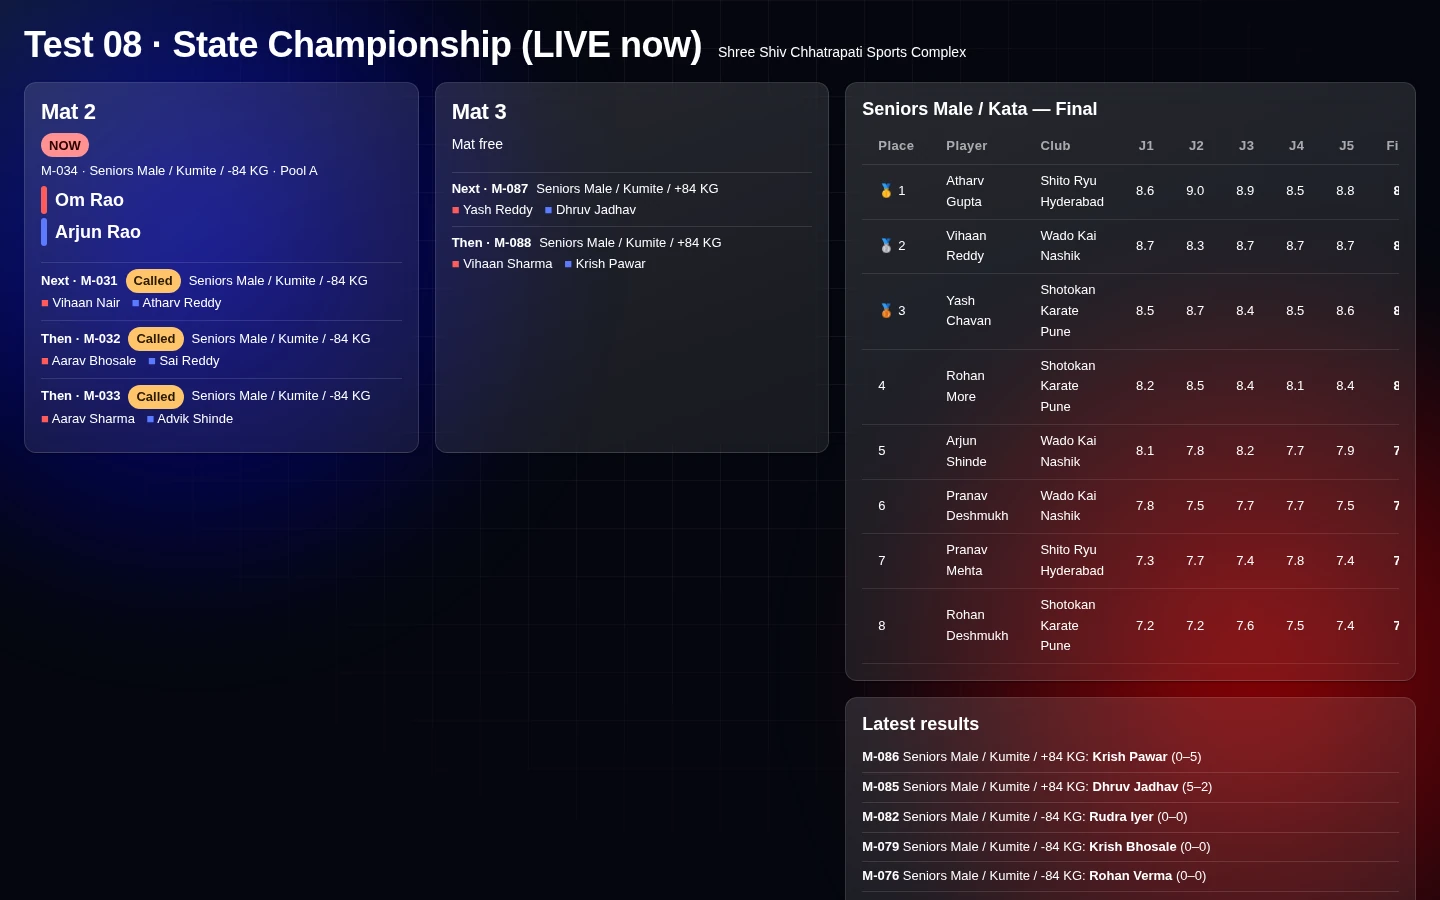
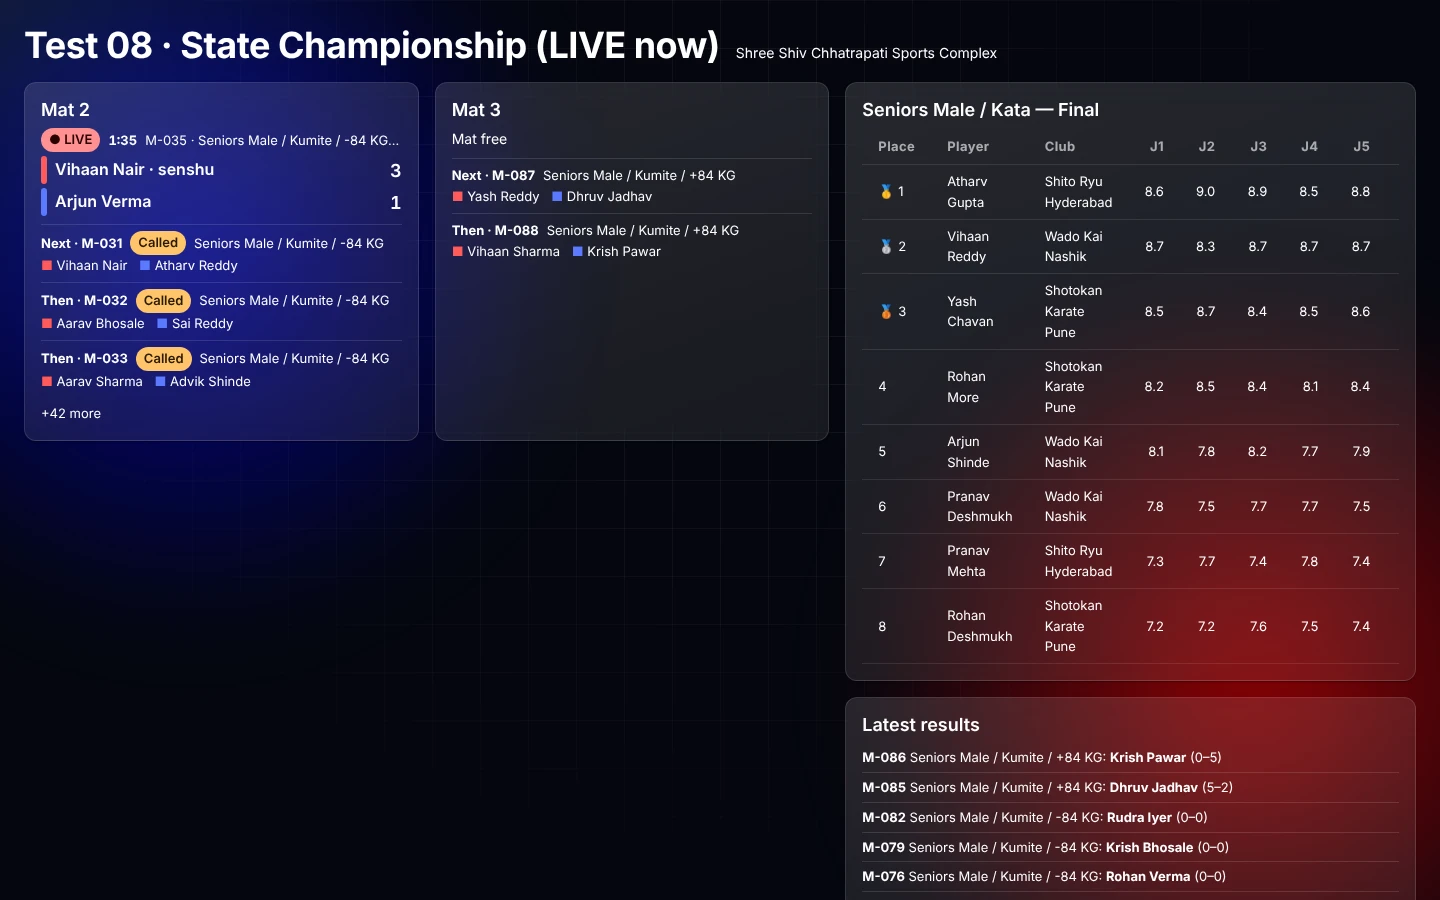
Show every mat's live score on the hall Live board
The Live board read only the hall scoreboard row (polled every 10 s), so
it showed a score for one mat at a time: whichever opened last. It now
uses the same mat cards as the public Live tab, each with its own mat
scoreboard's pushed score, and drops its own copy of the mat queues.

KAN-428

Claude-Session: https://claude.ai/code/session_0126QuUdDXNdBAZ2Z9CT3bto

diff --git a/packages/web/src/pages/public/LiveBoard.jsx b/packages/web/src/pages/public/LiveBoard.jsx
@@ -1,23 +1,21 @@
 import { useEffect, useMemo, useState } from 'react'
 import { useSearchParams } from 'react-router-dom'
-import { Box, Typography, Paper, Grid, Stack, Chip, Card, CardActionArea, CardContent, Container } from '@mui/material'
+import { Box, Typography, Paper, Grid, Stack, Card, CardActionArea, CardContent, Container } from '@mui/material'
 import { tms } from '../../data/tms'
 import { watchPublicChanges } from '../../data/live'
-import { displayRepo } from '../../data/display'
 import Bracket from '../../components/tms/Bracket'
 import KataRoundTable from '../../components/tms/KataRoundTable'
 import { PageLoader } from '../../components/Loader'
+import MatCard from '../../components/tms/MatCard'
+import { matQueues } from '../../components/tms/matQueues'
+import { useMatScoreboards } from '../../hooks/useMatScoreboards'
 
-const AKA = '#FF5B5B'
-const AO = '#5B7BFF'
-const NEXT_PER_MAT = 3
 const EVENT_NAME = { kata: 'Kata', kumite: 'Kumite' }
 const ROTATE_MS = 12_000
-const number = (m) => Number(String(m.matchNumber).replace(/\D/g, '')) || 0
 
 /**
  * PRD point 22: the hall screen at /live. For every mat, the bout on it (with
- * the live score when the scoreboard is open), the bouts called and coming
+ * its live score while that mat's scoreboard shows it), the bouts called and coming
  * next, and a rotating view of the brackets and kata results. Public data
  * only (Rule 8); it updates itself as the server announces changes.
  *
@@ -54,8 +52,8 @@ export default function LiveBoard() {
 
 function Board({ slug }) {
   const [data, setData] = useState(null)
-  const [live, setLive] = useState(null)
   const [slide, setSlide] = useState(0)
+  const scoreOf = useMatScoreboards()
 
   useEffect(() => {
     let alive = true
@@ -64,7 +62,6 @@ function Board({ slug }) {
     const stop = watchPublicChanges(load)
     return () => { alive = false; stop() }
   }, [slug])
-  useEffect(() => displayRepo.subscribe(setLive), [])
 
   // The brackets and kata results with something to show, one at a time.
   const slides = useMemo(() => (data?.results || []).flatMap((d) => [
@@ -81,12 +78,9 @@ function Board({ slug }) {
 
   // Only the event on the mats now (Kata and Kumite take turns): the other's bouts are not next.
   const running = data.tournament.runningEvent
-  const waiting = data.matches.filter((m) => !['completed', 'cancelled'].includes(m.status) && m.aka && m.ao)
-  const pending = waiting.filter((m) => !running || !m.event || m.event === running).sort((a, b) => number(a) - number(b))
-  const later = waiting.find((m) => running && m.event && m.event !== running)
-  const mats = [...new Set(pending.map((m) => m.mat || 1))].sort((a, b) => a - b)
+  const queues = matQueues(data.matches, running, (m) => !!scoreOf(m))
+  const later = running && data.matches.find((m) => !['completed', 'cancelled'].includes(m.status) && m.aka && m.ao && m.event && m.event !== running)
   const recent = data.matches.filter((m) => m.status === 'completed').slice(-6).reverse()
-  const scoreboardOpen = live && live.status === 'open'
   const current = slides[slide % Math.max(1, slides.length)]
 
   return (
@@ -99,38 +93,13 @@ function Board({ slug }) {
       <Grid container spacing={2}>
         <Grid size={{ xs: 12, lg: 7 }}>
           <Grid container spacing={2}>
-            {!mats.length && <Grid size={{ xs: 12 }}><Paper sx={{ p: 3 }}><Typography color="text.secondary">{later ? `${EVENT_NAME[running]} is on the mats now. The ${EVENT_NAME[later.event]} bouts come after it.` : 'No bouts waiting.'}</Typography></Paper></Grid>}
-            {mats.map((mat) => {
-              const queue = pending.filter((m) => (m.mat || 1) === mat)
-              const now = queue.find((m) => ['live', 'open', 'paused'].includes(m.status)) || null
-              const next = queue.filter((m) => m !== now).slice(0, NEXT_PER_MAT)
-              const showScore = now && scoreboardOpen && String(live.fieldNumber || '') === String(mat)
-              return (
-                <Grid key={mat} size={{ xs: 12, md: 6 }}>
-                  <Paper sx={{ p: 2, height: '100%' }}>
-                    <Typography variant="h2" sx={{ mb: 1 }}>Mat {mat}</Typography>
-                    {now ? (
-                      <Box sx={{ mb: 2 }}>
-                        <Chip size="small" color="error" label="NOW" sx={{ mb: 0.5 }} />
-                        <Typography variant="body2" color="text.secondary">{now.matchNumber} · {now.category} · {now.stage === 'knockout' ? now.roundName : `Pool ${now.pool}`}</Typography>
-                        <Side color={AKA} name={now.aka} score={showScore ? live.akaScore : null} />
-                        <Side color={AO} name={now.ao} score={showScore ? live.aoScore : null} />
-                      </Box>
-                    ) : <Typography color="text.secondary" sx={{ mb: 2 }}>Mat free</Typography>}
-                    {next.map((m, i) => (
-                      <Box key={m.id} sx={{ py: 0.75, borderTop: '1px solid', borderColor: 'divider' }}>
-                        <Stack direction="row" spacing={1} sx={{ alignItems: 'center' }}>
-                          <Typography variant="body2" sx={{ fontWeight: 700 }}>{i === 0 ? 'Next' : `Then`} · {m.matchNumber}</Typography>
-                          {m.calledAt && <Chip size="small" color="warning" label="Called" />}
-                          <Typography variant="body2" color="text.secondary" noWrap sx={{ flex: 1 }}>{m.category}</Typography>
-                        </Stack>
-                        <Typography variant="body2"><Box component="span" sx={{ color: AKA }}>■</Box> {m.aka}  <Box component="span" sx={{ color: AO, ml: 1 }}>■</Box> {m.ao}</Typography>
-                      </Box>
-                    ))}
-                  </Paper>
-                </Grid>
-              )
-            })}
+            {!queues.length && <Grid size={{ xs: 12 }}><Paper sx={{ p: 3 }}><Typography color="text.secondary">{later ? `${EVENT_NAME[running]} is on the mats now. The ${EVENT_NAME[later.event]} bouts come after it.` : 'No bouts waiting.'}</Typography></Paper></Grid>}
+            {/* KAN-428: every mat with its own scoreboard's live score, as on the public page. */}
+            {queues.map((mq) => (
+              <Grid key={mq.mat} size={{ xs: 12, md: 6 }}>
+                <MatCard mat={mq.mat} now={mq.now} next={mq.next} board={mq.now ? scoreOf(mq.now) : null} />
+              </Grid>
+            ))}
           </Grid>
         </Grid>
 
@@ -158,15 +127,5 @@ function Board({ slug }) {
         </Grid>
       </Grid>
     </Box>
-  )
-}
-
-function Side({ color, name, score }) {
-  return (
-    <Stack direction="row" sx={{ alignItems: 'center', gap: 1, mt: 0.5 }}>
-      <Box sx={{ width: 6, height: 28, bgcolor: color, borderRadius: 1 }} />
-      <Typography variant="h3" sx={{ flex: 1 }} noWrap>{name || 'TBD'}</Typography>
-      {score != null && <Typography variant="h2">{score}</Typography>}
-    </Stack>
   )
 }

diff --git a/packages/web/src/pages/public/LiveBoard.event.test.jsx b/packages/web/src/pages/public/LiveBoard.event.test.jsx
@@ -1,5 +1,5 @@
 import { describe, it, expect, vi } from 'vitest'
-import { render, screen } from '@testing-library/react'
+import { render, screen, within } from '@testing-library/react'
 import { MemoryRouter } from 'react-router-dom'
 import LiveBoard from './LiveBoard'
 import { hallInfo } from '../referee/RefereeMatchControl'
@@ -30,6 +30,24 @@ describe('the live board (/live)', () => {
     expect(screen.getByText(/Next · M-004/)).toBeInTheDocument()
     expect(screen.getByText(/Then · M-006/)).toBeInTheDocument()
     for (const kata of ['M-001', 'M-002', 'M-005']) expect(screen.queryByText(new RegExp(kata))).not.toBeInTheDocument()
+  })
+})
+
+describe('the live board with every mat scoring (KAN-428)', () => {
+  it("shows each mat's own live score, not only the mat the hall screen last opened", async () => {
+    const board = (akaScore, aoScore) => ({ akaScore, aoScore, senshu: null, clock: null, outcome: null, heartbeatAt: Date.now() })
+    data.view.mockResolvedValue({
+      tournament: { name: 'Pune Open', venue: 'Pune', runningEvent: 'kumite' },
+      matches: [bout(1, 'kumite', { status: 'live', scoreboard: board(3, 1) }), bout(2, 'kumite', { mat: 2, status: 'live', scoreboard: board(0, 5) })],
+      results: [],
+    })
+    render(<MemoryRouter initialEntries={['/live?t=pune-open']}><LiveBoard /></MemoryRouter>)
+    const mat1 = within(await screen.findByTestId('mat-1'))
+    const mat2 = within(screen.getByTestId('mat-2'))
+    expect(mat1.getByText('3')).toBeInTheDocument()
+    expect(mat1.getByText('1')).toBeInTheDocument()
+    expect(mat2.getByText('0')).toBeInTheDocument()
+    expect(mat2.getByText('5')).toBeInTheDocument()
   })
 })
 

diff --git a/docs/user-guide/README.md b/docs/user-guide/README.md
@@ -622,7 +622,7 @@ Safety rules on the console:
 | --- | --- | --- |
 | Mat scoreboard | `/display?mat=N` | That mat's bout: names, clubs, scores, senshu, clock, category, round and the next bout |
 | Hall scoreboard | `/display` | The latest bout opened on any mat |
-| Live board | `/live?t=<short name>` | Every mat: the bout on now and the next ones, latest results, brackets and kata results in turn |
+| Live board | `/live?t=<short name>` | Every mat: the bout on now with its live score and the next ones, latest results, brackets and kata results in turn |
 | Public page | `/tournament/<short name>` | Information, categories, teams, players, draw, live matches (every mat's bout with its live score), results and medal tally; athletes and clubs you follow |
 | Scoreboard control | `/scoreboard_operator` | What the hall shows now, announcements to the hall or one mat, links to every screen |
 
@@ -630,9 +630,9 @@ Safety rules on the console:
 
 *A mat scoreboard on the hall TV.*
 
-![The live board: each mat's bout and the next ones, beside the latest kata final.](images/live-board.webp)
+![The live board: each mat's bout with its live score and the next ones, beside the latest kata final.](images/live-board.webp)
 
-*The live board: each mat's bout and the next ones, beside the latest kata final.*
+*The live board: each mat's bout with its live score and the next ones, beside the latest kata final.*
 
 ![Scoreboard control: the current bout, an announcement for the hall, and the screen links.](images/scoreboard-operator.webp)
 
@@ -641,7 +641,7 @@ Safety rules on the console:
 - Screens need no sign-in and update by themselves. A mat screen receives each score as it happens.
 - A scoreboard shows **NOT LIVE** when the console has sent nothing for 5 seconds (a dropped connection).
 - During the Kata session the live board says "Kata is on the mats now" instead of listing Kumite bouts.
-- The public page's **Live matches** tab has a card for each mat: the bout on it now with its score, senshu and clock as the mat's scoreboard shows them, then the next bouts (**Called** once called). The card reads **● LIVE** while the scoreboard is sending and **NOW** when it is not open or has sent nothing for 15 seconds; **Mat free** when no bout is on. Below the cards are the up-next and completed lists.
+- The public page's **Live matches** tab has a card for each mat: the bout on it now with its score, senshu and clock as the mat's scoreboard shows them, then the next bouts (**Called** once called). The card reads **● LIVE** while the scoreboard is sending and **NOW** when it is not open or has sent nothing for 15 seconds; **Mat free** when no bout is on. Below the cards are the up-next and completed lists. The live board's mat cards work the same way.
 - On the public page, tap **☆** beside an athlete (Players tab) or a club (Teams tab) to follow them. A **Following** card at the top of the page then shows each one: **● On Mat N now** with the score, **Called**, or their next bout with its mat and how many bouts come before it on that mat (a bout of the other event says it waits for that event), and their last result. A club lists its athletes with a bout to come, the soonest first. Follows are kept on that phone for that tournament; no sign-in is needed. Tap **×** on the card, or the star again, to stop following.
 - The public page shows only published results. A private tournament has no public page; an unlisted one is reached only by its link.
 

diff --git a/docs/operator-handbook/README.md b/docs/operator-handbook/README.md
@@ -547,7 +547,7 @@ The TV screens need no sign-in. Each one opens the app's address followed by **/
 The Scoreboard Operator's page lists these screens, so they open with one click:
 
 1. **Mat 1** (1), **Mat 2** and so on: one mat's bout and score, for the TV beside that mat.
-2. **Live board (every mat)** (2): every mat and the next bouts, for a big screen in the hall or spectators' phones.
+2. **Live board (every mat)** (2): every mat with the live score of the bout on it, and the next bouts, for a big screen in the hall or spectators' phones.
 3. To put a message on the screens, type it in **Message for the hall** (3) and click **Show** (4), for example "Lunch break until 1:30 pm". **Clear** removes it.
 
 ![Scoreboard control: 1 a mat's screen, 2 Live board, 3 and 4 a message for the hall](images/p4-screens.webp)
